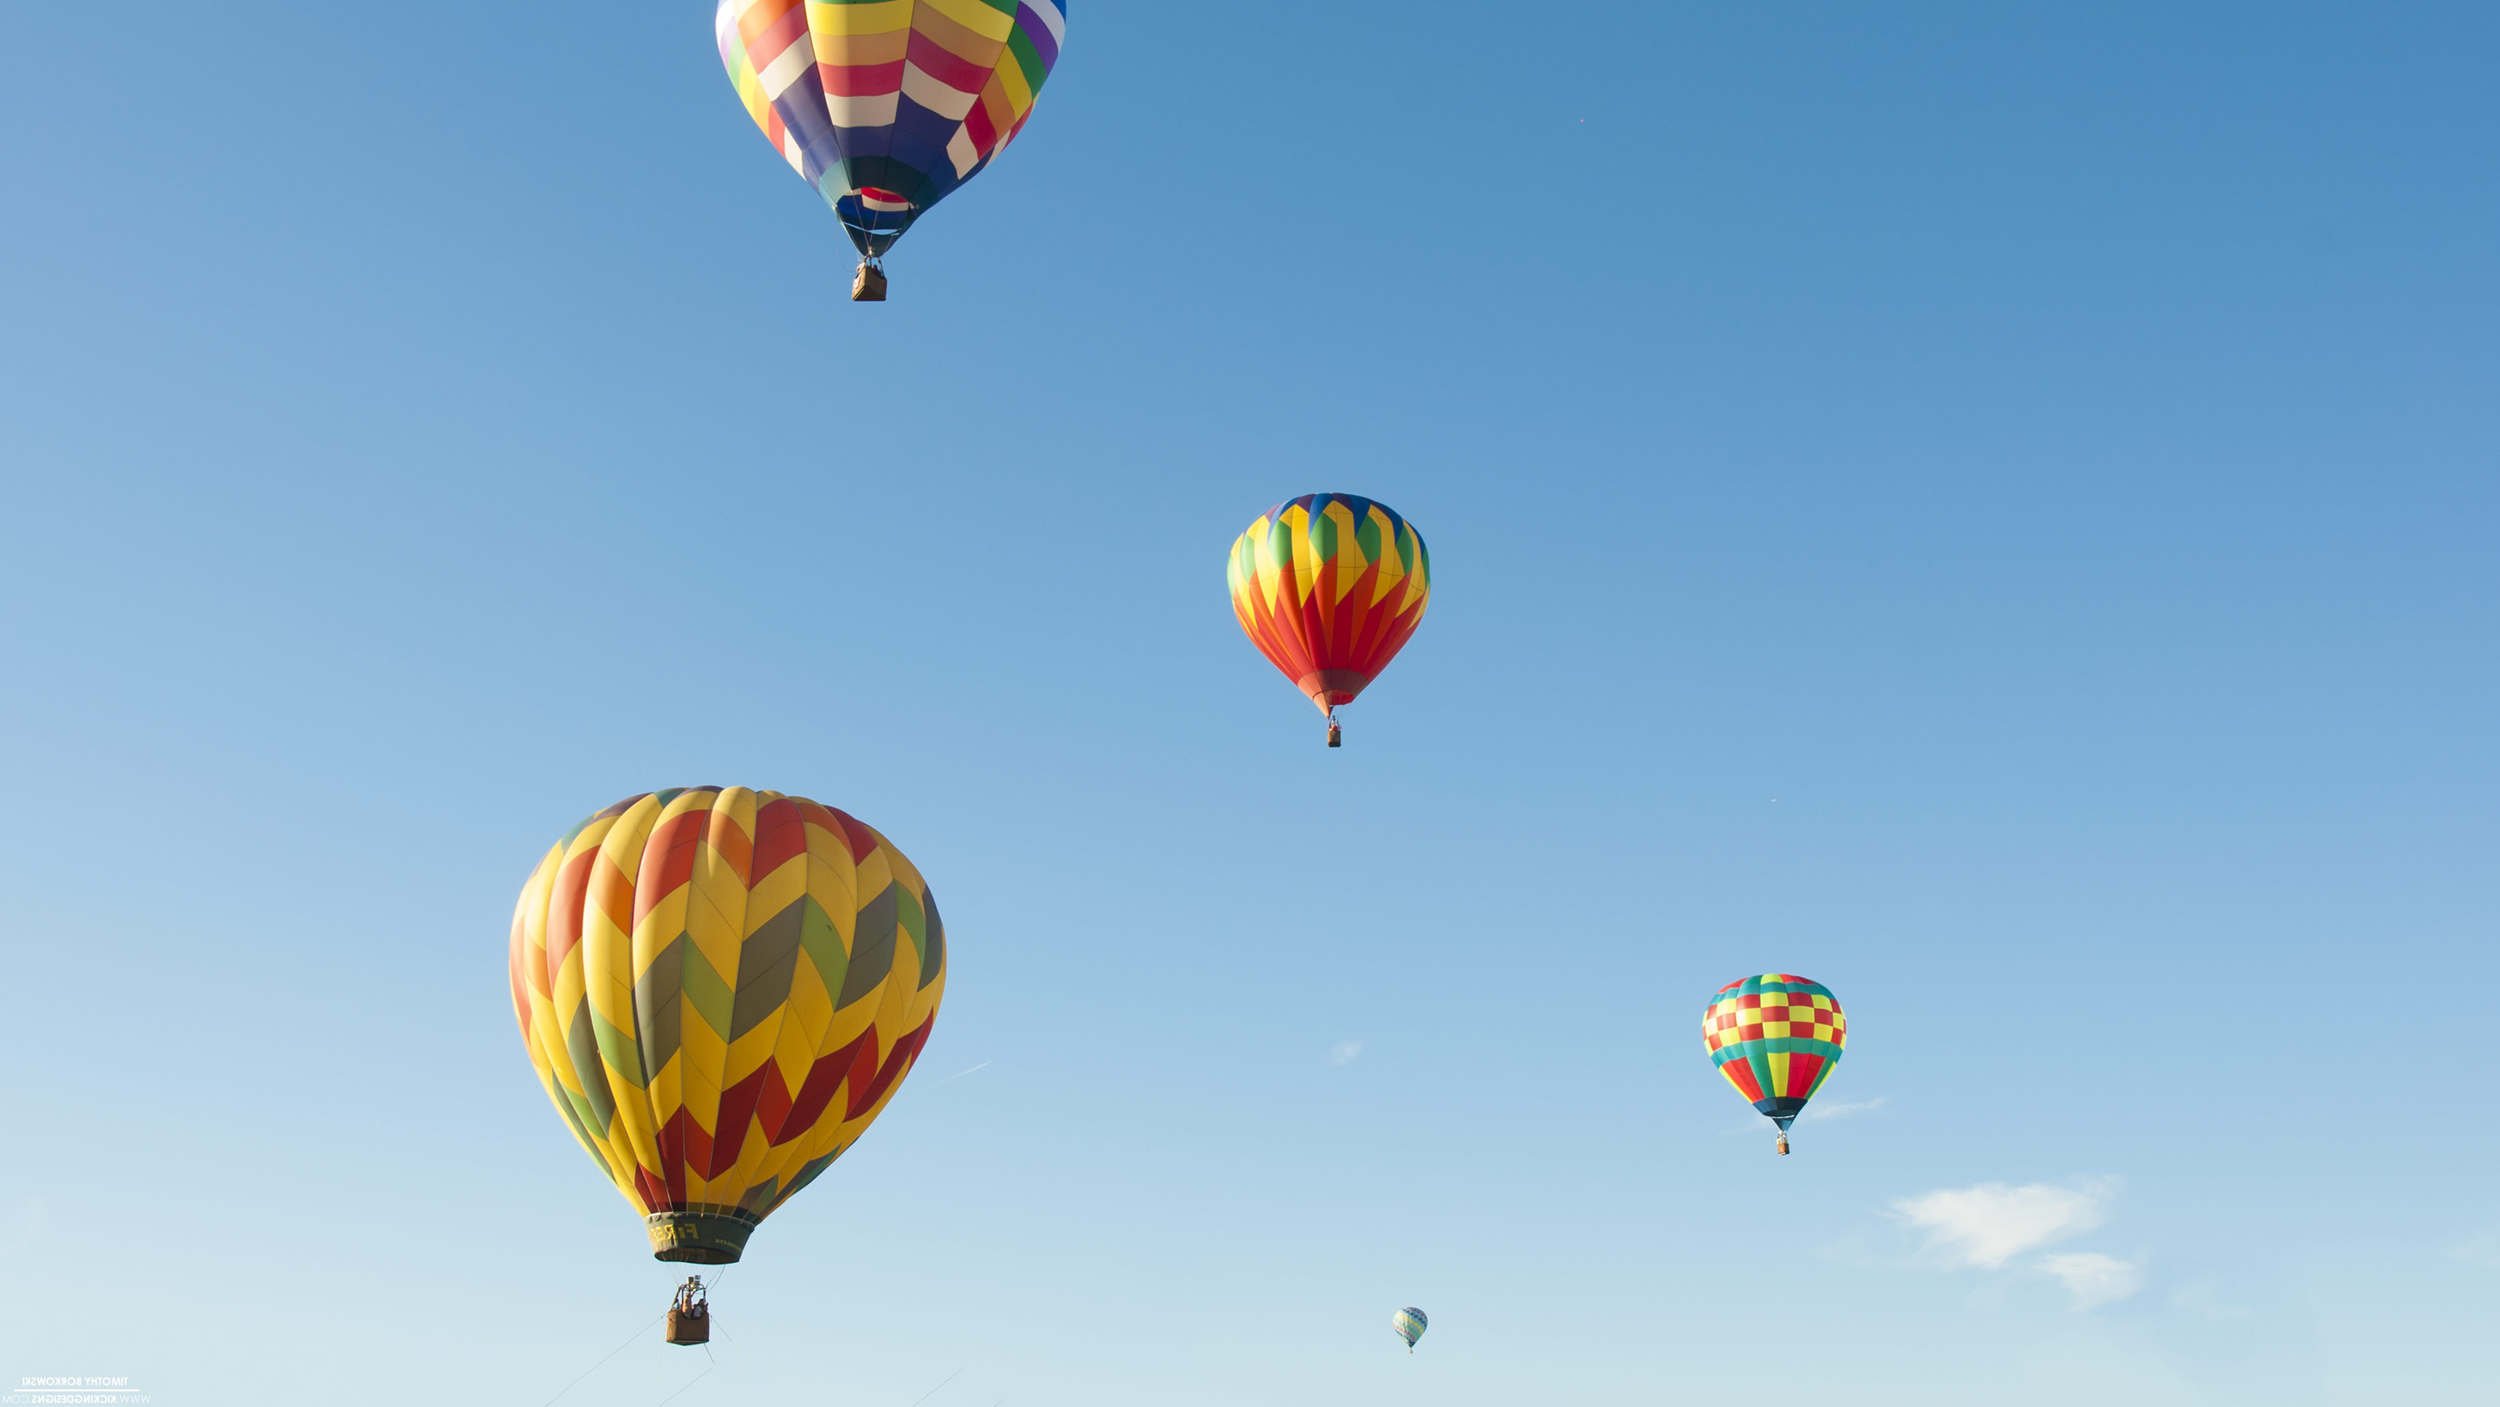
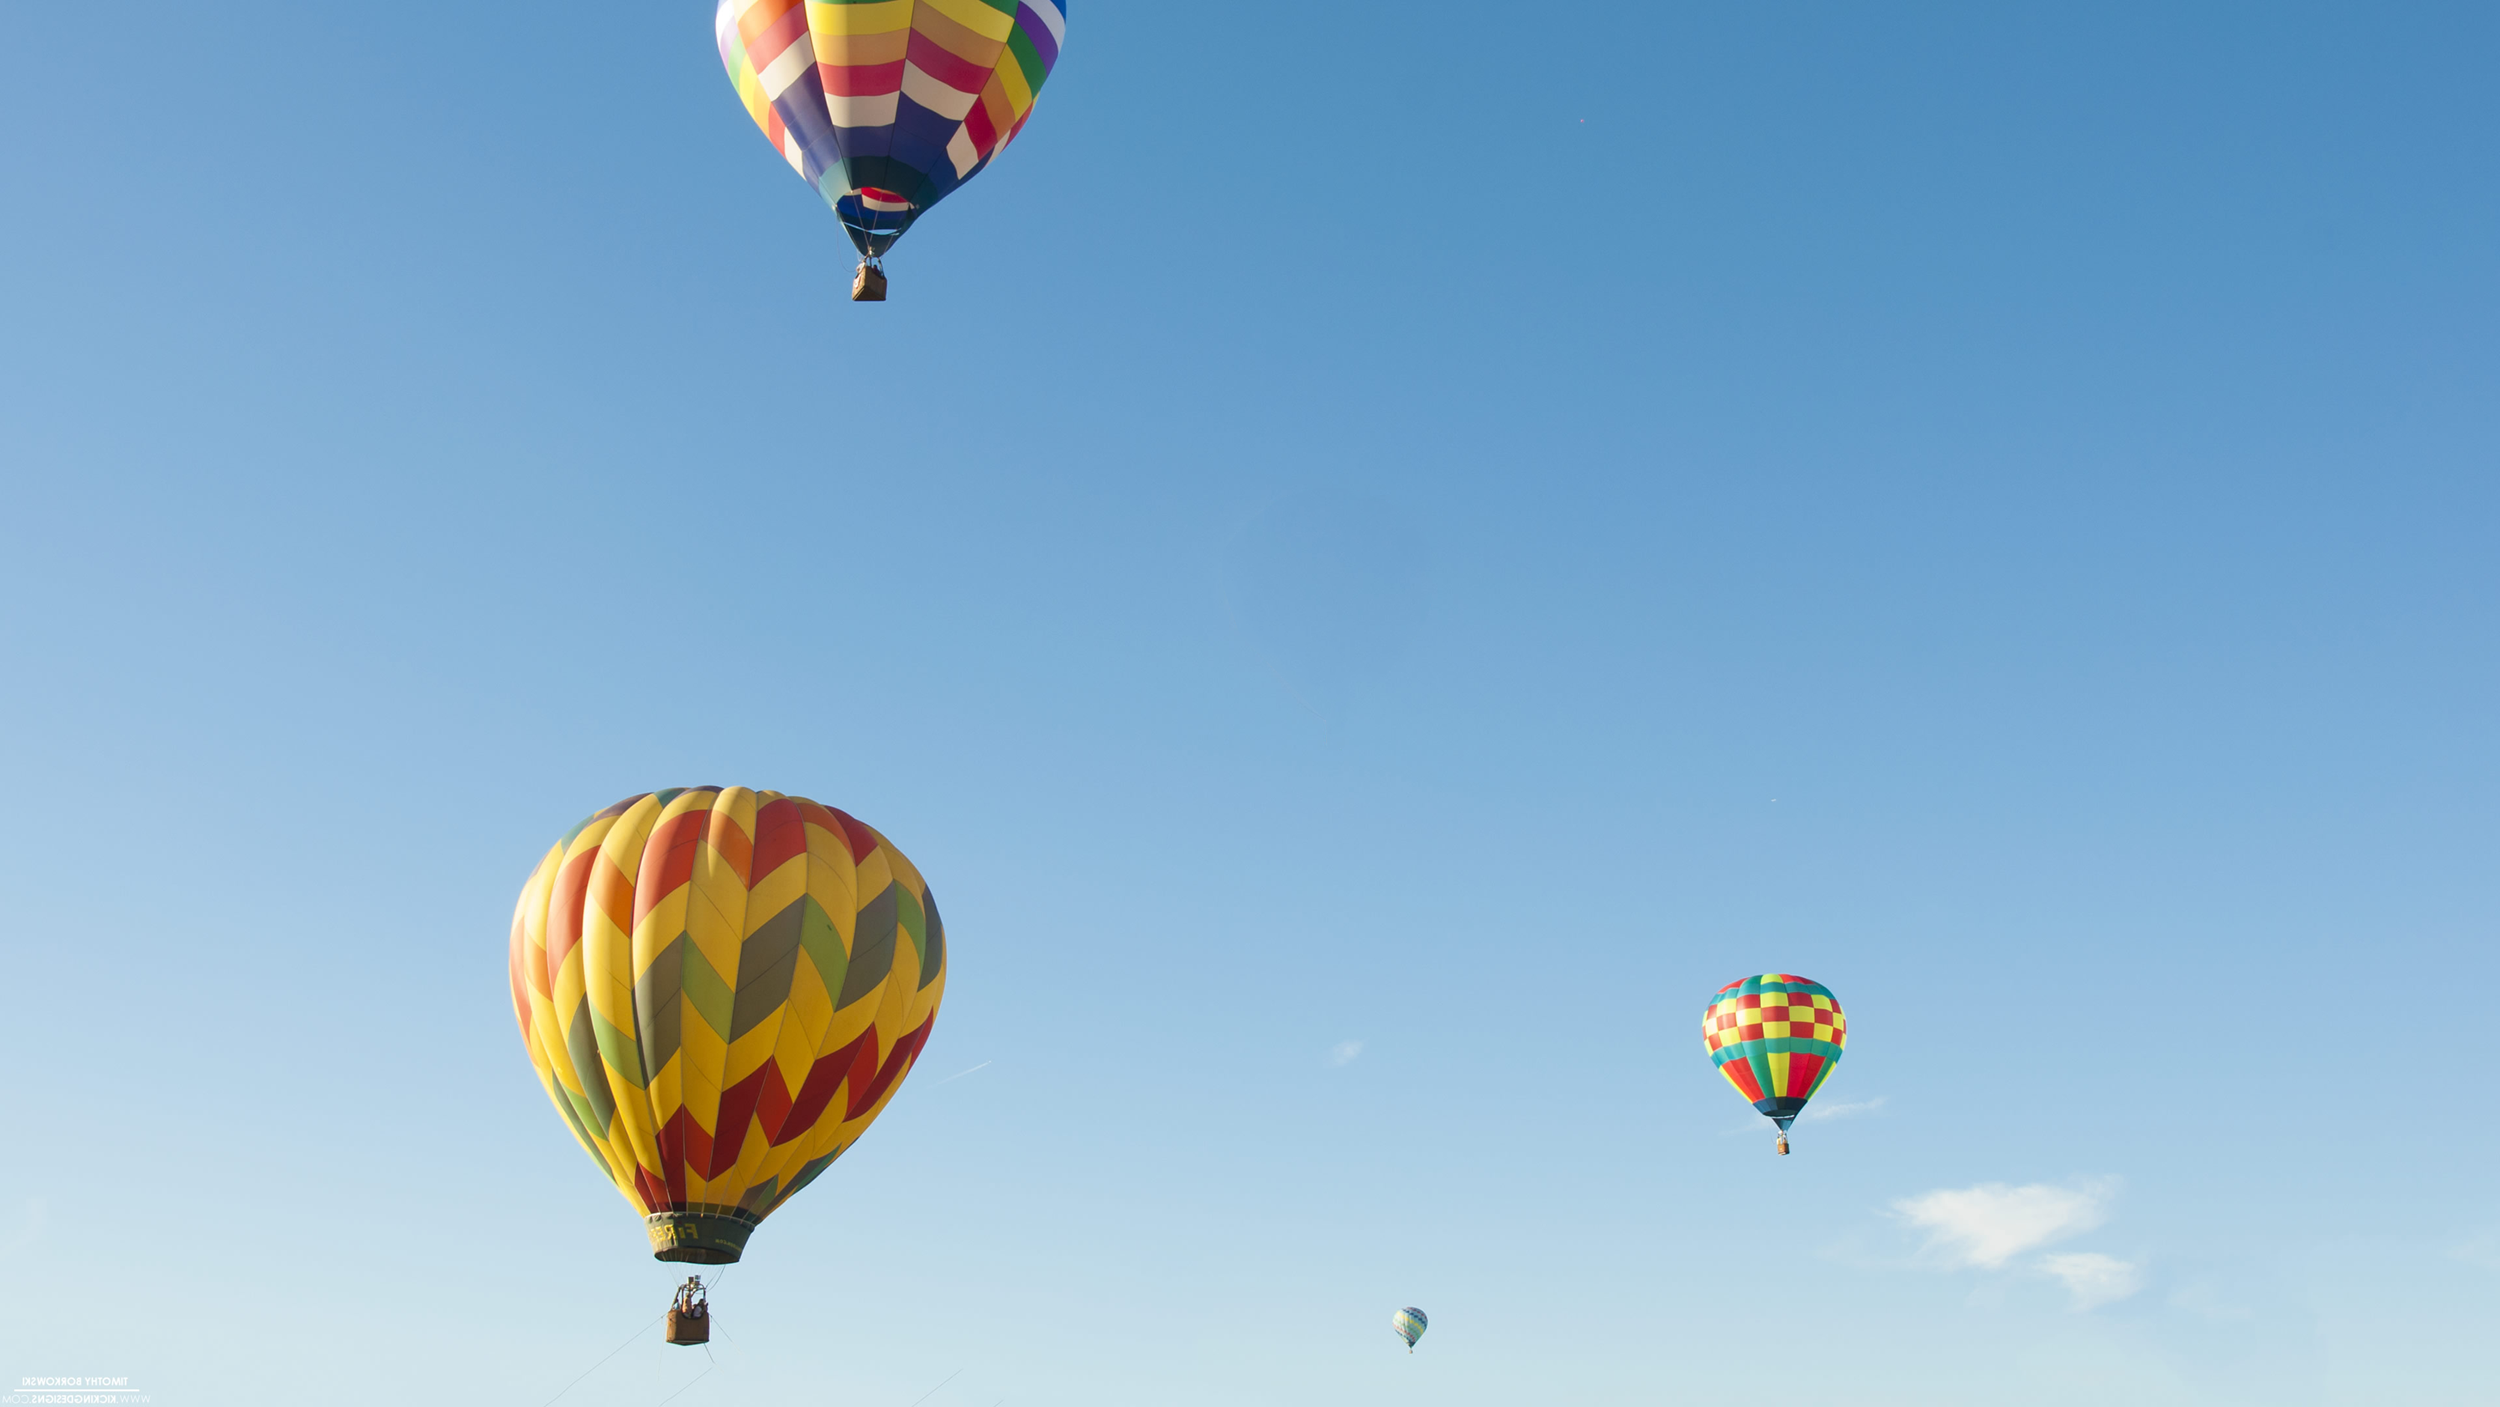
adding paralax directive

Changed region(s): [[0.468, 0.3362, 0.5928, 0.5195]]

diff --git a/app/assets/javascripts/angular-parallax.js b/app/assets/javascripts/angular-parallax.js
@@ -1,0 +1,55 @@
+'use strict';
+
+angular.module('angular-parallax', [
+]).directive('parallax', ['$window', function($window) {
+  return {
+    restrict: 'A',
+    scope: {
+      parallaxRatio: '@',
+      parallaxVerticalOffset: '@',
+      parallaxHorizontalOffset: '@',
+    },
+    link: function($scope, elem, $attrs) {
+      var setPosition = function () {
+        // horizontal positioning
+        elem.css('left', $scope.parallaxHorizontalOffset + "px");
+
+        var calcValY = $window.pageYOffset * ($scope.parallaxRatio ? $scope.parallaxRatio : 1.1 );
+        if (calcValY <= $window.innerHeight) {
+          var topVal = (calcValY < $scope.parallaxVerticalOffset ? $scope.parallaxVerticalOffset : calcValY);
+          elem.css('top', topVal + "px");
+        }
+      };
+
+      setPosition();
+
+      angular.element($window).bind("scroll", setPosition);
+      angular.element($window).bind("touchmove", setPosition);
+    }  // link function
+  };
+}]).directive('parallaxBackground', ['$window', function($window) {
+  return {
+    restrict: 'A',
+    transclude: true,
+    template: '<div ng-transclude></div>',
+    scope: {
+      parallaxRatio: '@',
+    },
+    link: function($scope, elem, attrs) {
+      var setPosition = function () {
+        var calcValY = (elem.prop('offsetTop') - $window.pageYOffset) * ($scope.parallaxRatio ? $scope.parallaxRatio : 1.1 );
+        // horizontal positioning
+        elem.css('background-position', "50% " + calcValY + "px");
+      };
+
+      // set our initial position - fixes webkit background render bug
+      angular.element($window).bind('load', function(e) {
+        setPosition();
+        $scope.$apply();
+      });
+
+      angular.element($window).bind("scroll", setPosition);
+      angular.element($window).bind("touchmove", setPosition);
+    }  // link function
+  };
+}]);

diff --git a/app/assets/javascripts/main.js b/app/assets/javascripts/main.js
@@ -1,4 +1,4 @@
-var app = angular.module('uplyApp', ['ui.compat', 'ngResource', 'ngAnimate', 'templates'])
+var app = angular.module('uplyApp', ['ui.compat', 'ngResource', 'ngAnimate', 'templates', 'angular-parallax'])
 
 .run(function($rootScope) {
     $rootScope.$on('$viewContentLoaded', function () {
